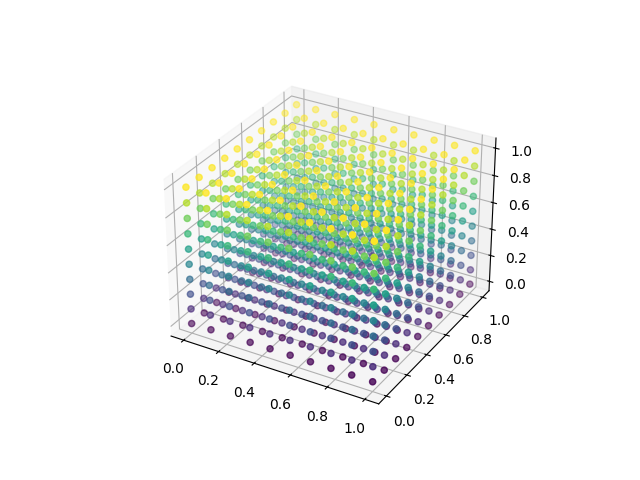
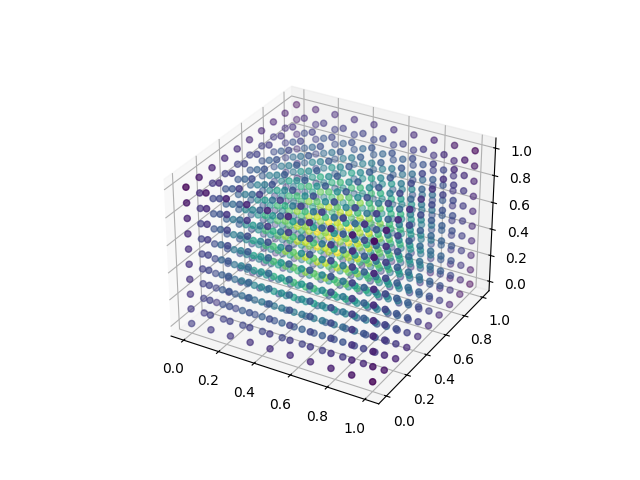
fixed issues with the sd grid

diff --git a/distance_matrix_fit.py b/distance_matrix_fit.py
@@ -14,7 +14,24 @@ def haltonseq(N, s):
     return sampler.random(N)
 
 def make_sd_grid(s, neval):
-    return np.linspace(0, 1, neval).reshape(-1, 1) * np.ones((neval, s))
+    if s==3:
+        xe, ye, ze = np.meshgrid(np.linspace(0, 1, neval), 
+                             np.linspace(0, 1, neval), 
+                             np.linspace(0, 1, neval))
+
+        xe = xe.flatten()
+        ye = ye.flatten()
+        ze = ze.flatten()
+        epoints=np.vstack((np.vstack((xe, ye)),ze)).T
+    elif s==2:
+        xe,ye=np.meshgrid(np.linspace(0,1,neval),np.linspace(0,1,neval))
+        xe=xe.flatten()
+        ye=ye.flatten()
+        
+        epoints=np.vstack((xe, ye)).T
+    else:
+        epoints=np.array(np.meshgrid(np.linspace(0,1,neval))).T
+    return epoints
 
 def test_function(x):
     n = x.shape[1]
@@ -26,15 +43,16 @@ def test_function(x):
         s[i] = 4**n * product
     return s
 
-s = 3
+s = 1
 k = 2
-N = max((2 - k + 1) * s, 1)
+N = (2*k+1)**s
 neval = 10
 M = neval - s
 
 dsites = haltonseq(N, s)
 ctrs = dsites
 epoints = make_sd_grid(s, neval)
+#print(epoints.shape)
 rhs = test_function(dsites)
 
 IM = distance_matrix(dsites, ctrs)
@@ -64,8 +82,8 @@ if s == 1:
     plt.close()
 
 elif s == 2:
-    xe = epoints[:, 1].reshape(neval, neval)
-    ye = epoints[:, 0].reshape(neval, neval)
+    xe = epoints[:, 0].reshape(neval, neval)
+    ye = epoints[:, 1].reshape(neval, neval)
 
     fig = plt.figure()
     ax = fig.add_subplot(111, projection='3d')
@@ -74,13 +92,9 @@ elif s == 2:
     plt.close()
 
 elif s == 3:
-    xe, ye, ze = np.meshgrid(np.linspace(0, 1, neval), 
-                             np.linspace(0, 1, neval), 
-                             np.linspace(0, 1, neval))
-
-    xe = xe.flatten()
-    ye = ye.flatten()
-    ze = ze.flatten()
+    xe=epoints[:,0]
+    ye=epoints[:,1]
+    ze=epoints[:,2]
 
     Pf_flat = Pf.flatten()
 

diff --git a/distance_matrix.py b/distance_matrix.py
@@ -3,6 +3,7 @@ import numpy as np
 
 def distance_matrix(dsites, ctrs):
     (m,s)=dsites.shape
+    print(dsites.shape)
     (n,s)=ctrs.shape
     dm=np.zeros((m,n))
     for d in range(s):
